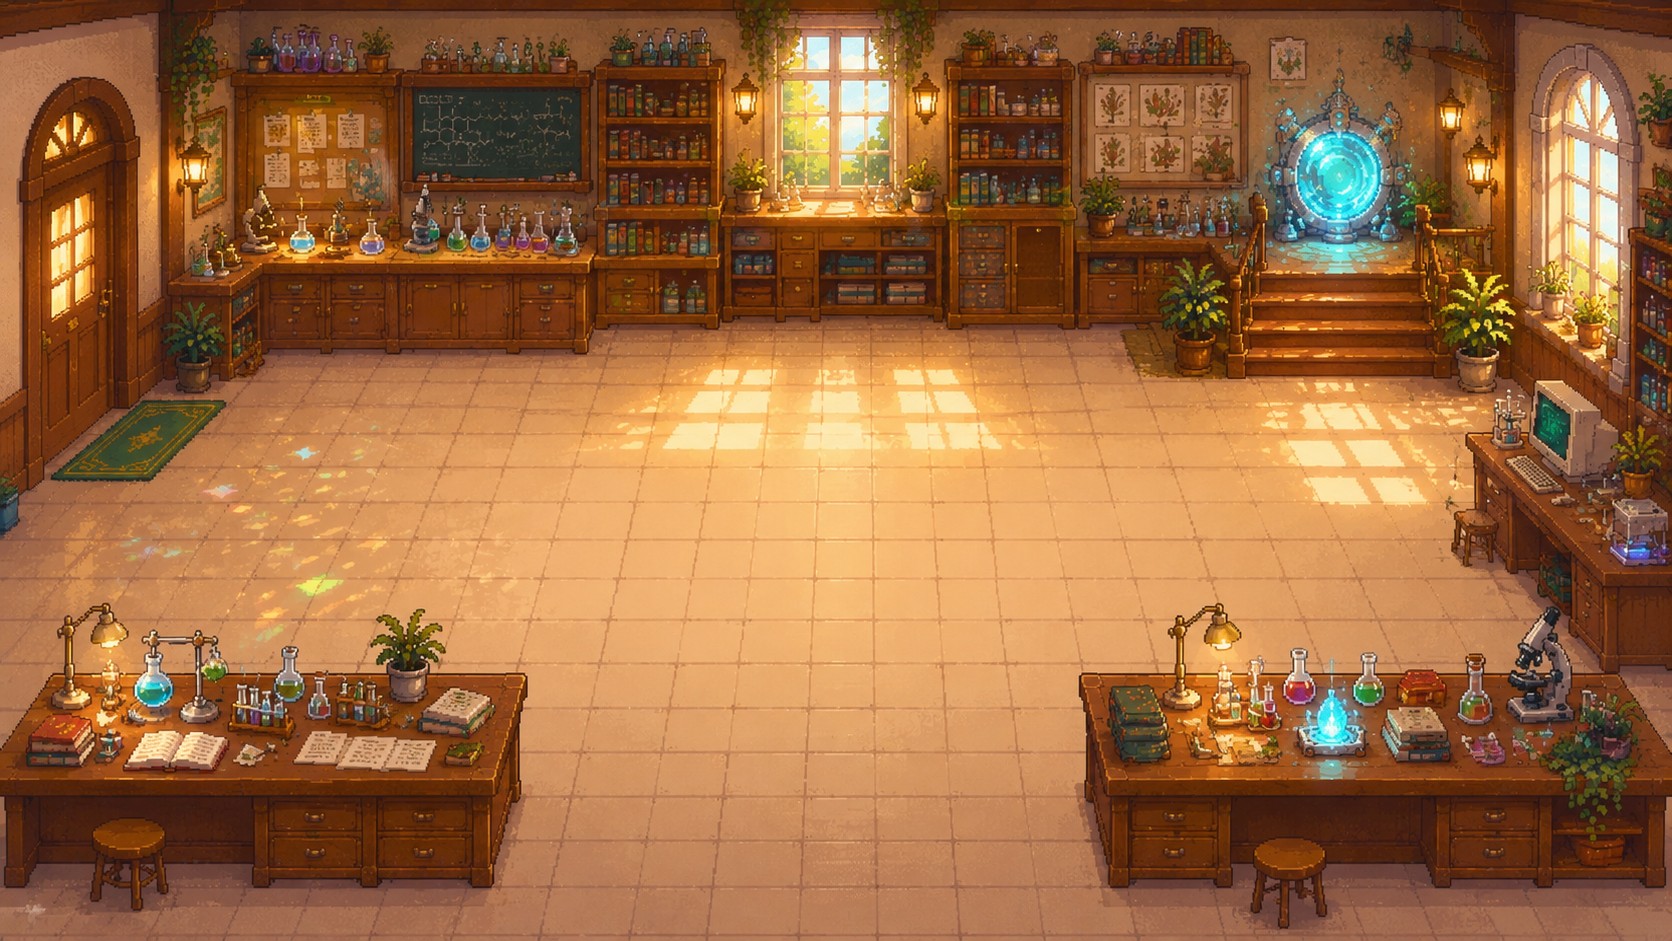
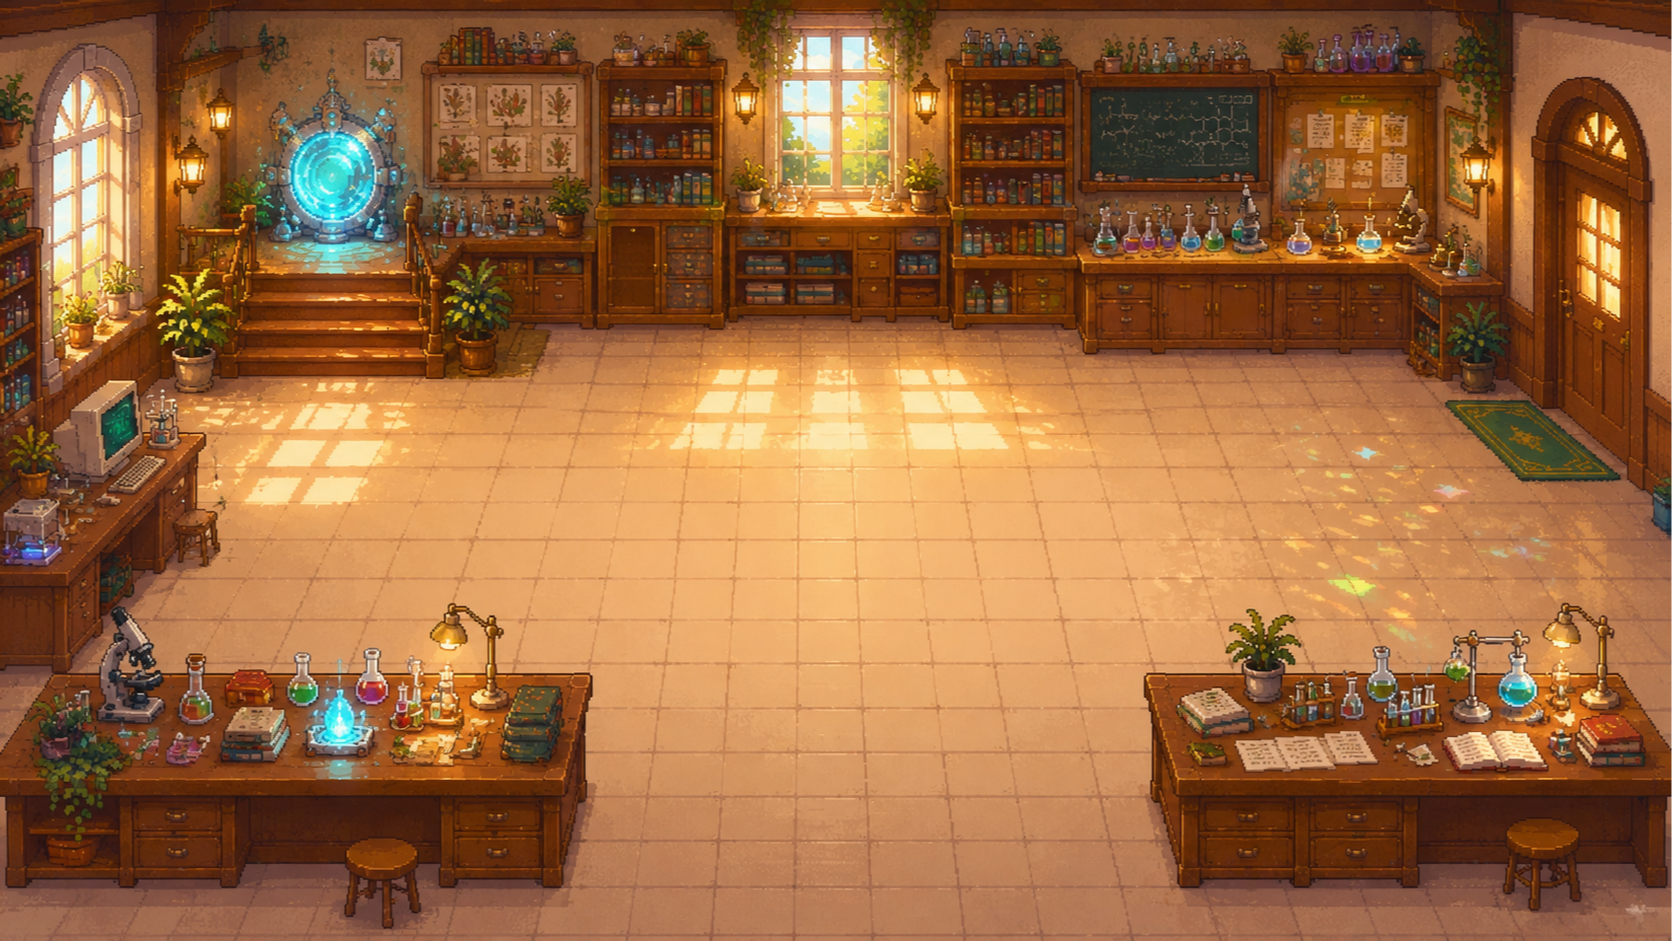
fix(game): adjust room entry/exit paths and fix keyboard movement rationality
- 手动调整所有房间入口出口行走路径使其与图片吻合
- 修复方向键移动的合理性

diff --git a/web/game.js b/web/game.js
@@ -923,14 +923,17 @@ function updateLockedTreasuryExit() {
 function setPlayerPosition(position, options = {}) {
     const token = $("player-token");
     const instant = options.instant === true;
-
+    
+    const roomConfig = ROOM_CONFIGS[currentRoomId] || ROOM_CONFIGS.main_hall;
+    const snappedPosition = snapToCrossPath(position, roomConfig);
+    
     if (instant) {
         token.classList.add("no-position-transition");
     }
 
-    currentPlayerPosition = { left: position.left, top: position.top };
-    token.style.left = position.left + "%";
-    token.style.top = position.top + "%";
+    currentPlayerPosition = { left: snappedPosition.left, top: snappedPosition.top };
+    token.style.left = snappedPosition.left + "%";
+    token.style.top = snappedPosition.top + "%";
 
     if (instant) {
         token.offsetHeight;
@@ -1087,12 +1090,12 @@ async function handleCommand(command) {
     if (direction) {
         const result = await movePlayerStep(direction);
         if (result.roomChanged) {
-        try {
-            response = await sendGameCommand(normalized);
-            appendApiMessage(response);
-        } catch (error) {
-            appendLog("后端命令暂时不可用，已保留前端移动结果。", "error");
-        }
+            try {
+                response = await sendGameCommand(normalized);
+                appendApiMessage(response);
+            } catch (error) {
+                appendLog("后端命令暂时不可用，已保留前端移动结果。", "error");
+            }
         }
         return;
     }
@@ -1121,61 +1124,62 @@ async function handleCommand(command) {
     }
 }
 
-// 一键移动到下一个房间（用于方向按钮）
-async function moveToDirection(direction) {
-    if (!direction || isMoving) return false;
+
+// WASD小步移动 - 每次只移动一小段，走到出口才进入下一房间
+async function movePlayerStep(direction) {
+    if (!direction || isMoving) return { moved: false, roomChanged: false };
 
     const room = rooms[currentRoomId];
+    const roomConfig = ROOM_CONFIGS[currentRoomId] || ROOM_CONFIGS.main_hall;
+
+    const nextPosition = calculateNextStep(currentPlayerPosition, direction, roomConfig);
+    if (!nextPosition) return { moved: false, roomChanged: false };
+
     const nextRoomId = room.exits[direction];
     const path = room.paths && room.paths[direction];
 
-    if (!nextRoomId || !path) {
-        appendLog("这个方向没有出口。", "error");
-        return false;
+    if (nextRoomId && path && isAtExit(currentPlayerPosition, path.exit)) {
+        await enterNextRoom(direction, nextRoomId, path);
+        return { moved: true, roomChanged: true };
     }
 
     isMoving = true;
     startPlayerStep(direction);
+    setPlayerPosition(nextPosition);
 
-    const route = getMovementRoute(path);
-    for (const point of route) {
-        setPlayerPosition(point);
-        await wait(520);
-    }
-
+    await wait(300);
     stopPlayerStep(direction);
-    setPlayerVisible(false);
-    await wait(180);
-
-    currentRoomId = nextRoomId;
-    gameState.visitedRooms.add(currentRoomId);
-    gameState.completion.roomsExplored = gameState.visitedRooms.size;
-    renderRoom(getEntryPositionForDirection(direction, path), { instantPlayerPosition: true });
-    setPlayerFrame(direction, 0);
-    await wait(80);
-    setPlayerVisible(true);
-    appendLog(`你来到了 ${rooms[currentRoomId].title}。`);
     isMoving = false;
 
-    if (currentRoomId === "teleport_room") {
-        await showTeleportDialog();
+    if (nextRoomId && path && isAtExit(nextPosition, path.exit)) {
+        await enterNextRoom(direction, nextRoomId, path);
+        return { moved: true, roomChanged: true };
     }
 
-    return true;
+    return { moved: true, roomChanged: false };
 }
 
-// WASD小步移动 - 每次只移动一小段，走到出口才进入下一房间
-async function movePlayerStep(direction) {
-    if (!direction || isMoving) return false;
+// 检查是否到达出口位置
+function isAtExit(position, exit) {
+    if (!exit) return false;
+    const threshold = 6; // 允许的误差范围，稍微增大避免太敏感
+    return Math.abs(position.left - exit.left) < threshold && 
+           Math.abs(position.top - exit.top) < threshold;
+}
 
-    const room = rooms[currentRoomId];
-    const nextRoomId = room.exits[direction];
-    const path = room.paths && room.paths[direction];
-
-    if (!nextRoomId || !path) {
-        appendLog("这个方向没有出口。", "error");
-        return false;
-    }
+// 检查位置是否在十字通道上
+function isOnCrossPath(position) {
+    const centerX = 50;
+    const centerY = 50;
+    const tolerance = 12; // 十字通道的宽度容忍度
+    
+    // 检查是否在垂直通道上（x约等于50）
+    const onVertical = Math.abs(position.left - centerX) < tolerance;
+    // 检查是否在水平通道上（y约等于50）
+    const onHorizontal = Math.abs(position.top - centerY) < tolerance;
+    
+    return onVertical || onHorizontal;
+}
 
 // ========================================
 // 🛤 十字通道核心函数
@@ -1230,14 +1234,14 @@ function calculateNextStep(current, direction, roomConfig) {
     const snapped = snapToCrossPath(current, roomConfig, direction);
     newLeft = snapped.left;
     newTop = snapped.top;
-    
+
     switch(direction) {
         case 'north': newTop -= stepSize; break;
         case 'south': newTop += stepSize; break;
         case 'west': newLeft -= stepSize; break;
         case 'east': newLeft += stepSize; break;
     }
-    
+
     const afterMove = { left: newLeft, top: newTop };
     const snappedAfter = snapToCrossPath(afterMove, roomConfig, direction);
     newLeft = snappedAfter.left;
@@ -1252,7 +1256,7 @@ function calculateNextStep(current, direction, roomConfig) {
     if (hasHorizontal) {
         newLeft = Math.max(hRange.min, Math.min(hRange.max, newLeft));
     }
-    
+
     return { left: newLeft, top: newTop };
 }
 
@@ -1273,9 +1277,9 @@ async function enterNextRoom(direction, nextRoomId, path) {
     // 传送房间直接到中心，不需要动画
     if (currentRoomId === "teleport_room") {
         renderRoom({ left: targetX, top: targetY }, { instantPlayerPosition: true });
-    setPlayerVisible(true);
-    appendLog(`你来到了 ${rooms[currentRoomId].title}。`);
-    isMoving = false;
+        setPlayerVisible(true);
+        appendLog(`你来到了 ${rooms[currentRoomId].title}。`);
+        isMoving = false;
         updateDirectionControls();
         await showTeleportDialog();
         return;
@@ -1341,7 +1345,7 @@ function calculateStepsToCenter(entryPos, targetX, targetY) {
         }
         steps.push({ left: currentX, top: currentY });
     }
-
+    
     const stepsY = Math.floor(Math.abs(currentY - targetY) / stepSize);
     for (let i = 0; i < stepsY; i++) {
         if (currentY < targetY) {
@@ -1351,15 +1355,19 @@ function calculateStepsToCenter(entryPos, targetX, targetY) {
         }
         steps.push({ left: currentX, top: currentY });
     }
-
+    
     if (steps.length > 0) {
         steps[steps.length - 1] = { left: targetX, top: targetY };
     } else {
         steps.push({ left: targetX, top: targetY });
     }
-
+    
     return steps;
 }
+
+function getEntryPositionForDirection(direction, path) {
+    const roomConfig = ROOM_CONFIGS[currentRoomId] || ROOM_CONFIGS.main_hall;
+    return roomConfig.entryPoints[direction] || { x: 50, y: 50 };
 }
 
 function getMovementRoute(path) {
